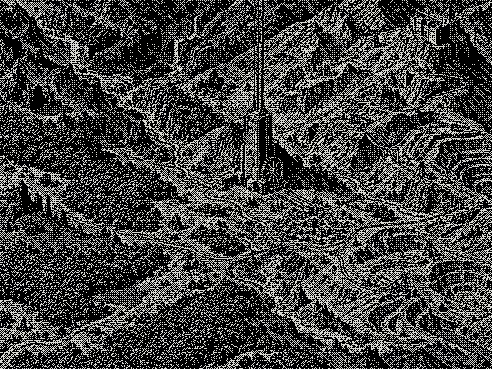
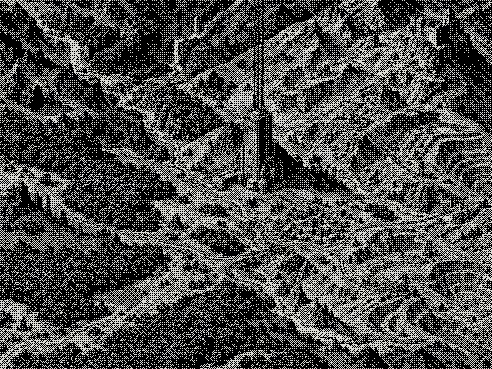
fix: preserve floor 2 map contrast

diff --git a/plugin_linear_ascent/version.py b/plugin_linear_ascent/version.py
@@ -1,1 +1,1 @@
-VERSION = "0.111.0"
+VERSION = "0.111.1"
